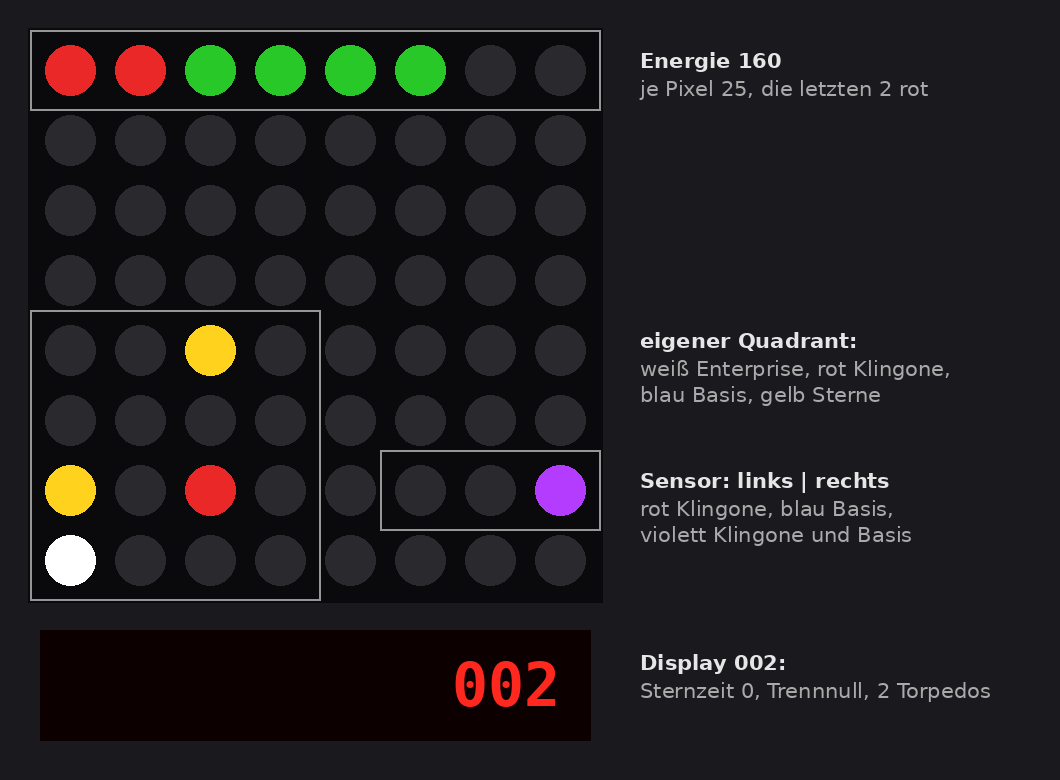
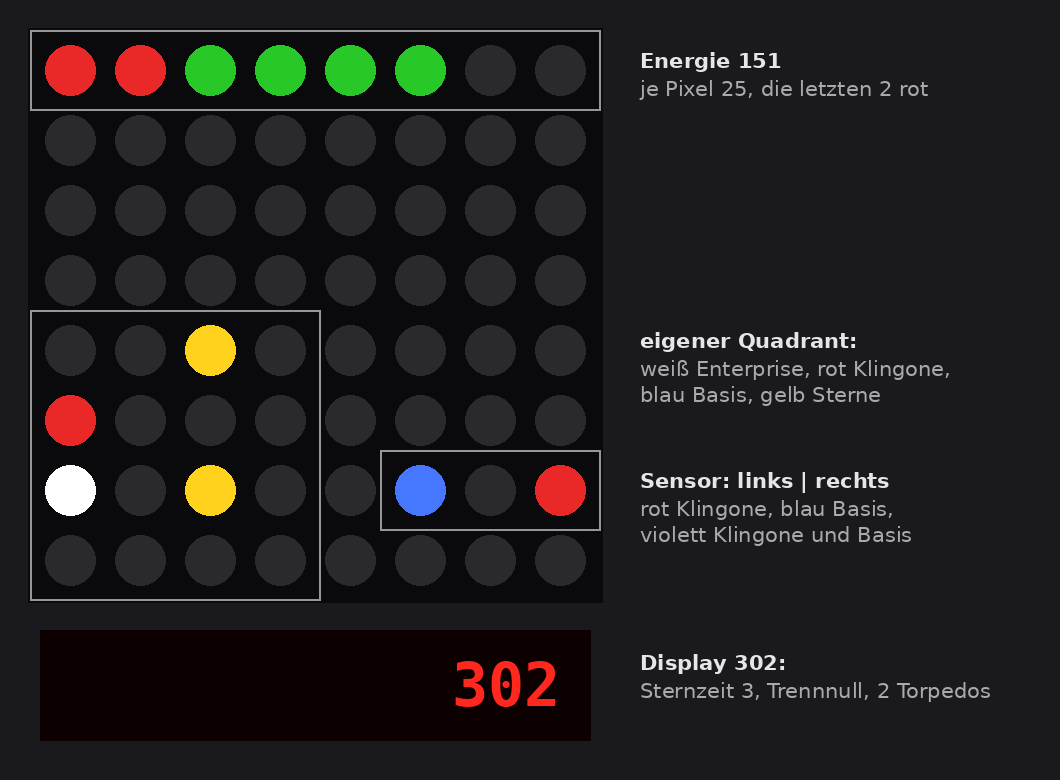
README ohne Testhinweise, neues Spielfeldbild
Bild: Sensor zeigt links Basis (blau) und rechts Klingone (rot),
Sternzeit 3, 2 Torpedos.

Claude-Session: https://claude.ai/code/session_01U7feknepqYz7XUdFg7XNeb

diff --git a/README.md b/README.md
@@ -4,7 +4,6 @@ Star Trek im Stil von 1971 für den Busch Microtronic 2090 mit dem [ESP2090 Stud
 
 - 255 von 256 Programmschritten belegt
 - Dateien: [startrek.mic](startrek.mic), das kommentierte Listing, und das Userscript [startrek_farben.py](startrek_farben.py) für die Farben
-- Getestet im [Emulator2090](https://github.com/rab-berlin/Emulator2090) und mit einer Simulation aller 256 Galaxien ([simulation](simulation)), noch nicht am Gerät
 
 ![Spielfeld nach einem Sensor-Scan](bilder/spielfeld.png)
 
@@ -85,7 +84,7 @@ Alle Werte sind Konstanten im Programm und lassen sich ohne zusätzliche Schritt
 
 ## Simulation
 
-Im Ordner [simulation](simulation) liegt ein Regelmodell des Programms in Python, Zug für Zug gegen den Emulator geprüft, dazu Spielerstrategien. Die Spieler sehen nur, was auch ein Mensch sieht: den eigenen Quadranten, das Sensorbild, den Energiebalken in 25er-Stufen, Torpedos und Sternzeit. `python3 run_sim.py 1` spielt jede Strategie in allen 256 Galaxien (einige Sekunden je Strategie); alle Ergebnisse stehen in [sim_ergebnisse.txt](simulation/sim_ergebnisse.txt).
+Im Ordner [simulation](simulation) liegt ein Regelmodell des Programms in Python mit Spielerstrategien. Die Spieler sehen nur, was auch ein Mensch sieht: den eigenen Quadranten, das Sensorbild, den Energiebalken in 25er-Stufen, Torpedos und Sternzeit. `python3 run_sim.py 1` spielt jede Strategie in allen 256 Galaxien (einige Sekunden je Strategie); alle Ergebnisse stehen in [sim_ergebnisse.txt](simulation/sim_ergebnisse.txt).
 
 | Strategie | Siege | verloren durch Energie / Zeit |
 |---|---|---|
